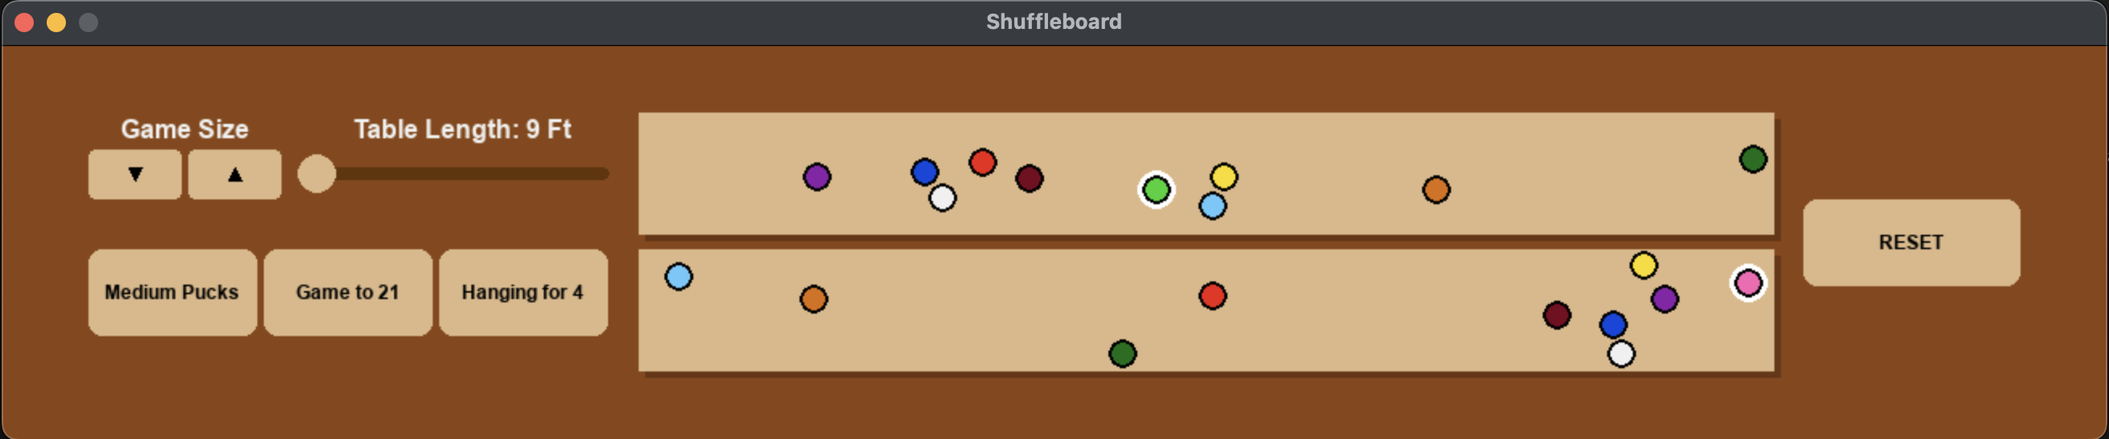
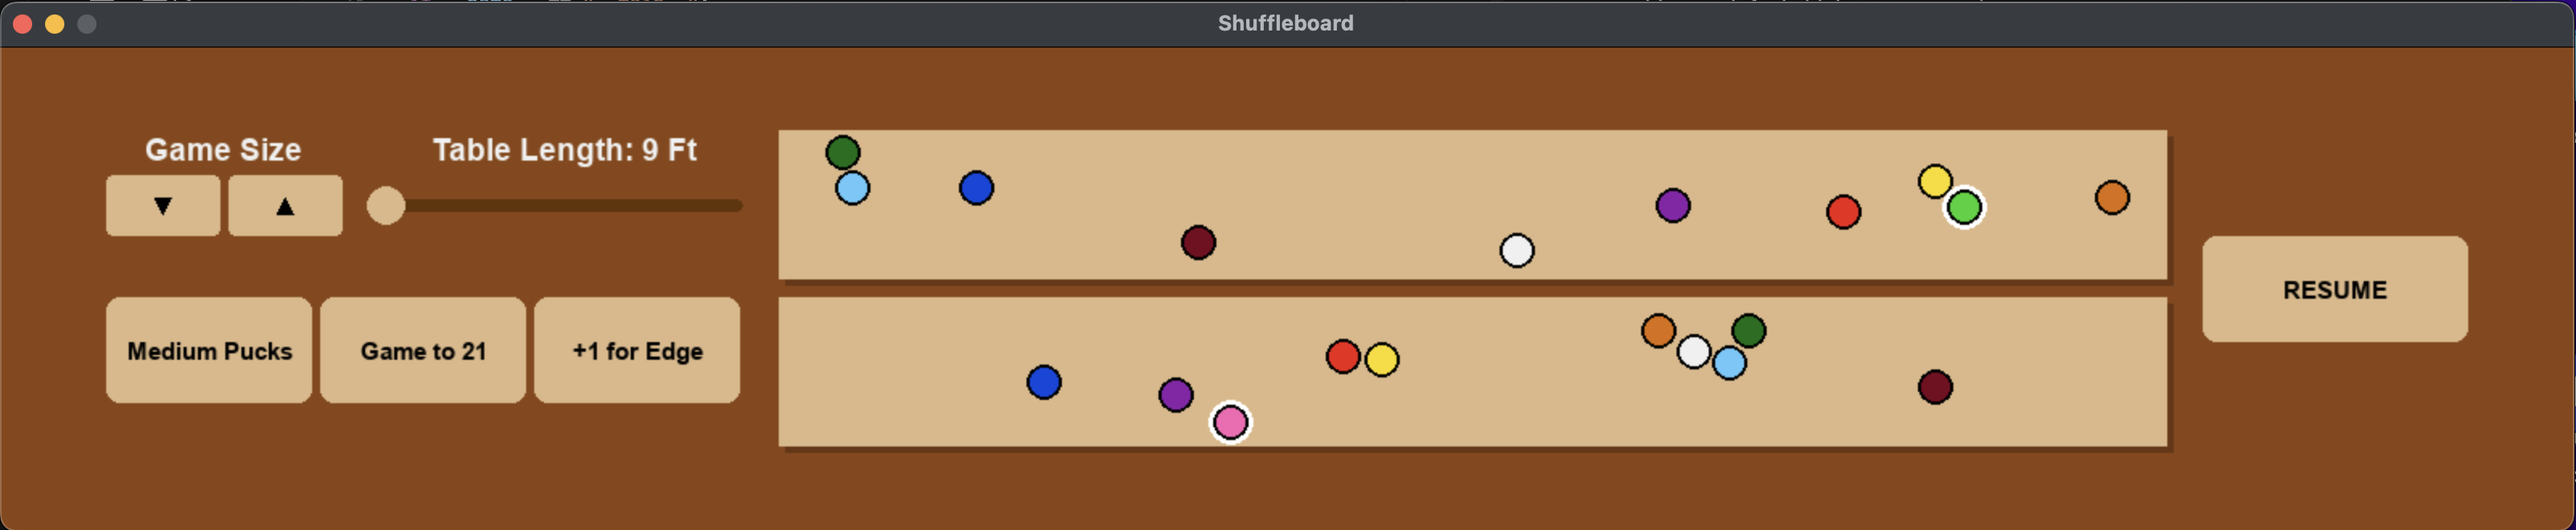
Change nomenclature

diff --git a/src/game.py b/src/game.py
@@ -56,10 +56,11 @@ class Shuffleboard:
             valid_save = True
 
         if valid_save:
-            s = saved_data["settings"]
-            self.board_length_ft = s["length"]
-            self.puck_size = s["puck_size"]
-            saved_ppi = s["ppi"]
+            # --- Robust Loading with Defaults ---
+            s = saved_data.get("settings", {})
+            self.board_length_ft = s.get("length", DEFAULT_LENGTH_FT)
+            self.puck_size = s.get("puck_size", DEFAULT_PUCK_SIZE)
+            saved_ppi = s.get("ppi", constants.PPI)
             
             force_update_ppi(saved_ppi)
             self.update_dimensions()
@@ -72,18 +73,22 @@ class Shuffleboard:
             self.menu = Options(self.board_length_ft, self.puck_size)
             
             self.menu.ppi = saved_ppi
-            self.menu.target_score = s["target_score"]
-            self.menu.hangers_enabled = s["hangers"]
-            self.menu.p1_color = s["p1_color_name"]
-            self.menu.p2_color = s["p2_color_name"]
+            self.menu.target_score = s.get("target_score", 21)
+            # UPDATED: Use new "edging" key, defaulting to True if missing (old save file)
+            self.menu.edging_enabled = s.get("edging", True)
+            self.menu.p1_color = s.get("p1_color_name", "Red")
+            self.menu.p2_color = s.get("p2_color_name", "Blue")
             self.menu.refresh_puck_positions() 
 
-            g = saved_data["gameplay"]
-            self.current_turn = g["current_turn"]
-            self.round_winner = g["round_winner"]
-            self.throws_left = {P1: g["throws_left_p1"], P2: g["throws_left_p2"]}
-            self.game_over = g["game_over"]
-            self.game_state = g["game_state"]
+            g = saved_data.get("gameplay", {})
+            self.current_turn = g.get("current_turn", P1)
+            self.round_winner = g.get("round_winner", P1)
+            self.throws_left = {
+                P1: g.get("throws_left_p1", 4), 
+                P2: g.get("throws_left_p2", 4)
+            }
+            self.game_over = g.get("game_over", False)
+            self.game_state = g.get("game_state", "AIMING")
             self.state = "GAME"
             
             if g.get("state_timer_active", False):
@@ -91,20 +96,24 @@ class Shuffleboard:
             else:
                 self.state_timer = 0
 
-            sc = saved_data["scores"]
-            self.scoreboard.p1_score = sc["p1_score"]
-            self.scoreboard.p2_score = sc["p2_score"]
-            self.scoreboard.round_points = {P1: sc["round_p1"], P2: sc["round_p2"]}
-            self.scoreboard.game_winner = sc["game_winner"]
+            sc = saved_data.get("scores", {})
+            self.scoreboard.p1_score = sc.get("p1_score", 0)
+            self.scoreboard.p2_score = sc.get("p2_score", 0)
+            self.scoreboard.round_points = {
+                P1: sc.get("round_p1", 0), 
+                P2: sc.get("round_p2", 0)
+            }
+            self.scoreboard.game_winner = sc.get("game_winner", None)
 
             self.gutter.pucks = []
-            for p_data in saved_data["pucks"]:
-                col = tuple(p_data["color"]) 
-                new_puck = Puck(p_data["owner"], self.puck_size, col, 
+            for p_data in saved_data.get("pucks", []):
+                col = tuple(p_data.get("color", PUCK_COLORS["Red"]))
+                owner = p_data.get("owner", P1)
+                new_puck = Puck(owner, self.puck_size, col, 
                                 font="couriernew", text_color=BLACK)
-                new_puck.x_in = p_data["x_in"]
-                new_puck.y_in = p_data["y_in"]
-                new_puck.state = p_data["state"]
+                new_puck.x_in = p_data.get("x_in", 0)
+                new_puck.y_in = p_data.get("y_in", 0)
+                new_puck.state = p_data.get("state", STATE_GUTTER)
                 
                 new_puck.dx = p_data.get("dx", 0)
                 new_puck.dy = p_data.get("dy", 0)
@@ -236,9 +245,10 @@ class Shuffleboard:
             elif result == "START":
                 memory.save_memory(self)
                 self.state = "GAME"
+                # UPDATED: Use new edging_enabled property name
                 has_changed = (int(self.menu.length) != int(self.menu.orig_length)) or \
                               (self.menu.puck_size != self.menu.orig_puck_size) or \
-                              (self.menu.hangers_enabled != self.menu.orig_hangers) or \
+                              (self.menu.edging_enabled != self.menu.orig_edging) or \
                               (self.menu.target_score != self.menu.orig_target)
                 
                 if has_changed:
@@ -326,7 +336,6 @@ class Shuffleboard:
                 if self.throws_left[puck.owner] > 0: self.throws_left[puck.owner] -= 1
             self.game_state = "MOVING"
         else:
-            # Gutter throw
             if self.table.is_touching_table(puck):
                 puck.state = STATE_THROWN
             else:
@@ -413,7 +422,8 @@ class Shuffleboard:
                         physics.check_puck_collision(p1, p2)
 
             scoring_candidates = [p for p in all_pucks if self.table.is_touching_table(p)]
-            self.scoreboard.calculate_points(scoring_candidates, self.board_length_ft, self.menu.hangers_enabled, self.game_over)
+            # UPDATED: Use new edging_enabled property name
+            self.scoreboard.calculate_points(scoring_candidates, self.board_length_ft, self.menu.edging_enabled, self.game_over)
 
             if self.game_state == "MOVING" and moving_count == 0: self.handle_turn_end()
             if self.game_state == "ROUND_OVER_DELAY":
@@ -430,13 +440,10 @@ class Shuffleboard:
         f_line = (self.board_length_ft - FOUL_LINE_FT) * 12
         
         for p in self.gutter.pucks:
-            # UPDATED: Included STATE_READY to clear pucks sitting in the throwing zone
             if p.state in (STATE_THROWN, STATE_ON_BOARD, STATE_READY):
                 if self.game_over:
                     p.state = STATE_ON_BOARD
                 else:
-                    # STRICT RULE: Must completely cross foul line to stay.
-                    # Anything to the left (including throw zone) goes to gutter.
                     has_crossed = (p.x_in - p.radius_in) > f_line
                     
                     if has_crossed:
@@ -474,7 +481,7 @@ class Shuffleboard:
             self.gutter.draw_active_layer(self.screen)
             
             self.gutter.draw_puck_shadows(self.screen, self.surface_rect, [STATE_ON_BOARD])
-            self.gutter.draw_hanging_layer(self.screen)
+            self.gutter.draw_edging_layer(self.screen)
             
             m_pos = pygame.mouse.get_pos()
             

diff --git a/src/components/options.py b/src/components/options.py
@@ -14,7 +14,7 @@ class Options:
         self.length = current_length
         self.puck_size = current_puck_size
         self.ppi = constants.PPI 
-        self.hangers_enabled = True 
+        self.edging_enabled = True 
         self.target_score = 21
         
         self.p1_color = "Red"
@@ -23,7 +23,7 @@ class Options:
         
         self.orig_length = current_length
         self.orig_puck_size = current_puck_size
-        self.orig_hangers = True
+        self.orig_edging = True
         self.orig_target = 21
         
         # Track integer length to trigger resizes only on foot changes
@@ -41,7 +41,7 @@ class Options:
         
         self.btn_size_rect = pygame.Rect(0,0,0,0)
         self.btn_score_rect = pygame.Rect(0,0,0,0)
-        self.btn_hang_rect = pygame.Rect(0,0,0,0)
+        self.btn_edge_rect = pygame.Rect(0,0,0,0)
         self.start_btn_rect = pygame.Rect(0,0,0,0)
         self.p1_area_rect = pygame.Rect(0,0,0,0)
         self.p2_area_rect = pygame.Rect(0,0,0,0)
@@ -67,7 +67,7 @@ class Options:
     def set_initials(self, length, puck_size, target_score):
         self.orig_length = length
         self.orig_puck_size = puck_size
-        self.orig_hangers = self.hangers_enabled
+        self.orig_edging = self.edging_enabled
         self.orig_target = target_score
         self.last_int_length = int(length)
         
@@ -152,7 +152,7 @@ class Options:
         
         self.btn_size_rect = pygame.Rect(left_x, row2_y, btn_w, btn_h)
         self.btn_score_rect = pygame.Rect(self.btn_size_rect.right + btn_gap, row2_y, btn_w, btn_h)
-        self.btn_hang_rect = pygame.Rect(self.btn_score_rect.right + btn_gap, row2_y, btn_w, btn_h)
+        self.btn_edge_rect = pygame.Rect(self.btn_score_rect.right + btn_gap, row2_y, btn_w, btn_h)
 
         # --- CENTER COLUMN ---
         total_h = int(18.0 * ppi) 
@@ -203,7 +203,7 @@ class Options:
             
             if self.btn_size_rect.collidepoint(m_pos): self.puck_size = PUCK_LARGE if self.puck_size == PUCK_MEDIUM else PUCK_MEDIUM
             if self.btn_score_rect.collidepoint(m_pos): self.target_score = 15 if self.target_score == 21 else 21
-            if self.btn_hang_rect.collidepoint(m_pos): self.hangers_enabled = not self.hangers_enabled
+            if self.btn_edge_rect.collidepoint(m_pos): self.edging_enabled = not self.edging_enabled
 
             if math.hypot(m_pos[0]-self.get_handle_x(), m_pos[1]-self.slider_rect.centery) < self.handle_radius:
                 self.dragging_slider = True
@@ -384,7 +384,7 @@ class Options:
         
         self._draw_btn(screen, self.btn_size_rect, "Medium Pucks" if self.puck_size == PUCK_MEDIUM else "Large Pucks")
         self._draw_btn(screen, self.btn_score_rect, f"Game to {self.target_score}")
-        self._draw_btn(screen, self.btn_hang_rect, "Hanging for 4" if self.hangers_enabled else "Hanging for 3")
+        self._draw_btn(screen, self.btn_edge_rect, "+1 for Edge" if self.edging_enabled else "+0 for Edge")
 
         # --- Zones ---
         self._draw_zone_no_outline(screen, self.p1_area_rect)
@@ -393,7 +393,7 @@ class Options:
         # --- Resume ---
         has_changed = (int(self.length) != int(self.orig_length)) or \
                       (self.puck_size != self.orig_puck_size) or \
-                      (self.hangers_enabled != self.orig_hangers) or \
+                      (self.edging_enabled != self.orig_edging) or \
                       (self.target_score != self.orig_target)
         self._draw_btn(screen, self.start_btn_rect, "RESET" if has_changed else "RESUME")
 

diff --git a/src/memory.py b/src/memory.py
@@ -26,7 +26,7 @@ def save_memory(game):
             "puck_size": game.puck_size,
             "ppi": constants.PPI,
             "target_score": game.menu.target_score,
-            "hangers": game.menu.hangers_enabled,
+            "edging": game.menu.edging_enabled,
             "p1_color_name": game.menu.p1_color,
             "p2_color_name": game.menu.p2_color
         },
@@ -54,7 +54,6 @@ def save_memory(game):
             "owner": p.owner,
             "x_in": p.x_in,
             "y_in": p.y_in,
-            # NEW: Save physics state
             "dx": p.dx,
             "dy": p.dy,
             "is_moving": p.is_moving,
@@ -67,7 +66,7 @@ def save_memory(game):
         with open(get_data_path(), 'w') as f:
             json.dump(data, f, indent=4)
     except Exception as e:
-        print(f"Failed to save memory: {e}")
+        print(f"Failed to save game data: {e}")
 
 def load_memory():
     path = get_data_path()
@@ -78,5 +77,5 @@ def load_memory():
         with open(path, 'r') as f:
             return json.load(f)
     except Exception as e:
-        print(f"Failed to load memory: {e}")
+        print(f"Failed to load game data: {e}")
         return None

diff --git a/src/components/scoreboard.py b/src/components/scoreboard.py
@@ -23,7 +23,7 @@ class Scoreboard:
         self.flash_timers = {}
         self.flash_colors = {}
 
-    def calculate_points(self, active_pucks, board_length_ft, hangers_enabled, game_over):
+    def calculate_points(self, active_pucks, board_length_ft, edging_enabled, game_over):
         # UPDATED: Added STATE_SELECTED to valid states, but ONLY if game_over is True
         valid = []
         for p in active_pucks:
@@ -54,9 +54,9 @@ class Scoreboard:
             
             dist_end = board_len_in - p.x_in
             left_edge = dist_end + p.radius_in
-            is_hanger = (p.x_in + p.radius_in > board_len_in)
+            is_edging = (p.x_in + p.radius_in > board_len_in)
             
-            if hangers_enabled and is_hanger: 
+            if edging_enabled and is_edging: 
                 pts += 4
             elif left_edge < line_3: pts += 3
             elif left_edge < line_2: pts += 2

diff --git a/src/components/table.py b/src/components/table.py
@@ -338,7 +338,7 @@ class Gutter:
         shadow_surf.fill((0, 0, 0, 0), surface_rect)
         screen.blit(shadow_surf, (0, 0))
 
-    def draw_hanging_layer(self, screen):
+    def draw_edging_layer(self, screen):
         for puck in self.pucks:
             if puck.state == STATE_ON_BOARD:
                 puck.draw(screen)

diff --git a/README.md b/README.md
@@ -86,11 +86,11 @@ Click the Menu Icon on the top right corner to open the Options Screen.
 ![Options Screenshot](screenshots/options.png)
 
 ### Table Settings
-* Game Size: Increases or decreases the PPI (pixels per inch), zooming the game window in or out.
-* Table Length: Adjusts the physical length of the table from 9 feet to 22 feet.
+* Game Size: Increases or decreases the PPI (pixels per inch).
+* Table Length: Adjusts the length of the table from 9 feet to 22 feet.
 * Puck Size: Toggles between medium (2 1/8") and large (2 5/16").
 * Score Goal: Toggles between playing a game to 21 or 15 points.
-* Hanging Points: Toggles scoring for pucks hanging off the edge between 4 points and 3 points.
+* Edge Points: Toggles scoring for pucks on the back edge between 4 points and 3 points.
 
 ### Player Customization
 * The two tables in the center allow you to choose puck colors. 
@@ -99,7 +99,7 @@ Click the Menu Icon on the top right corner to open the Options Screen.
 
 ### Resume vs. Reset
 * RESUME: Returns you to the current game without changes.
-* RESET: If you change a setting that affects gameplay (table length, puck size, score goal, or hanging points), the button will change to RESET. Clicking this will apply changes and start a new game by resetting the puck positions and scoreboard.
+* RESET: If you change a setting that affects gameplay (table length, puck size, score goal, or edge points), the button will change to RESET. Clicking this will apply changes and start a new game by resetting the puck positions and scoreboard.
 
 ---
 
